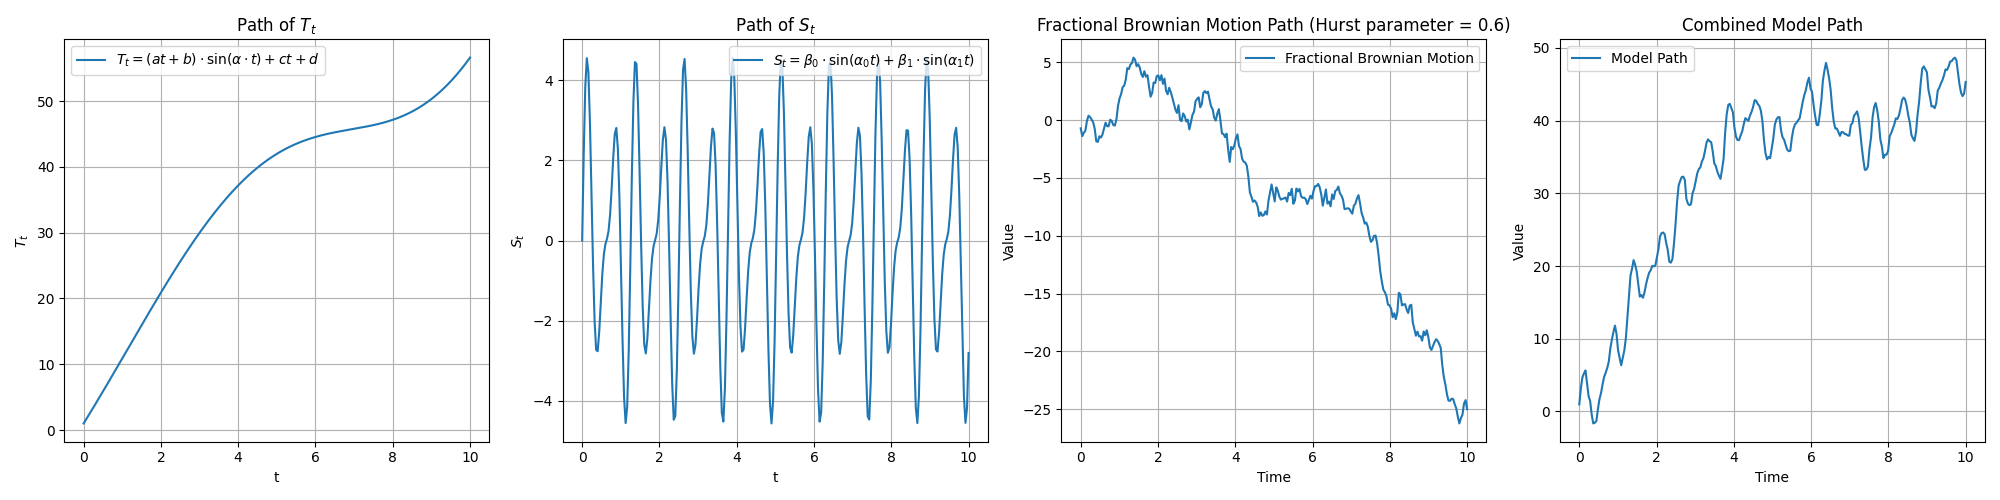
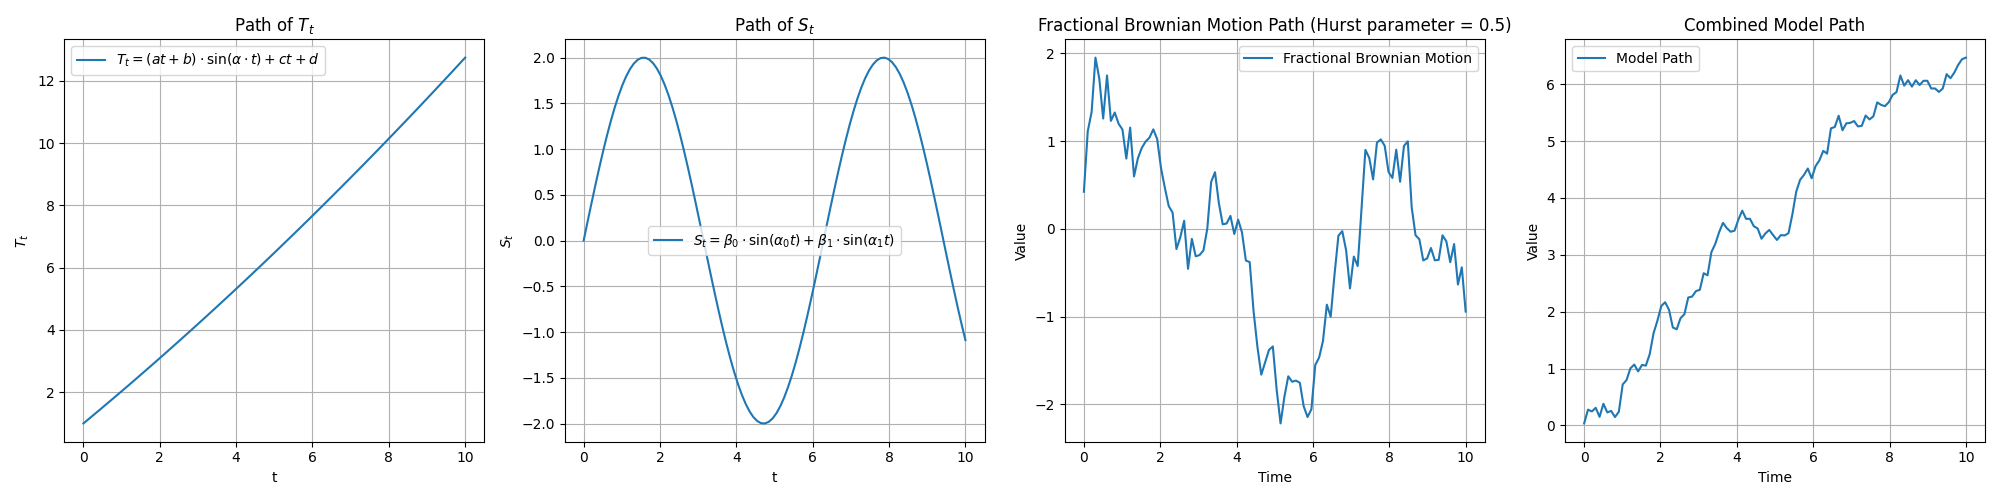
more restructering done

diff --git a/TimeSeries.py b/TimeSeries.py
@@ -1,22 +1,50 @@
 import numpy as np
 import matplotlib.pyplot as plt
+from season import Season_paper
+from trend import Trend_paper
+from cholesky_fBM import cholesky_fBm_mult
+
+def time_series_paper(Hurst, m, b, c1, c2, alpha,
+                      alpha1, alpha2, beta1, beta2,
+                      N_steps, T_max, n_paths, w_random, w_trend, w_season, typ):
+    
+    t_values, T_t = Trend_paper(m, b, c1, c2, alpha, N_steps, T_max, n_paths)
+    t_values, S_t = Season_paper(alpha1, alpha2, beta1, beta2, N_steps, T_max, n_paths)
+    t_values, paths = cholesky_fBm_mult(N_steps, T_max, Hurst, n_paths)
+    paths = np.array(paths)
+    T_t = np.array(T_t)
+    S_t = np.array(S_t)
+    
+    if typ == 1:
+        Yts = w_trend * T_t + w_season* S_t + w_random * paths   
+    elif typ == 8:
+        Yts = w_trend * T_t * w_season* S_t * w_random * paths     
+    else:
+        raise ValueError("Unsupported 'typ' value. Use 1 or 8.")
+        
+    return t_values, Yts
+        
 
 # Plotting all four plots next to each other
-def plot_subplots(a, b, c, d, alpha, alpha_0, alpha_1, beta_0, beta_1, N, T, H, x, y, z):
+def plot_subplots(Hurst, m, b, c1, c2, alpha,
+                      alpha1, alpha2, beta1, beta2,
+                      N_steps, T_max, n_paths, w_random, w_trend, w_season, typ=1, i=0):
     fig, axs = plt.subplots(1, 4, figsize=(20, 5))
 
     # Plot T_t
-    plot_T_t(axs[0], a, b, c, d, alpha, N, T, x)
+    plot_T_t(axs[0],m, b, c1, c2, alpha, N_steps, T_max, n_paths)
 
     # Plot S_t
-    plot_S_t(axs[1], alpha_0, alpha_1, beta_0, beta_1, N, T, y)
+    plot_S_t(axs[1],alpha1, alpha2, beta1, beta2, N_steps, T_max, n_paths)
 
     # Plot fBm_path
-    plot_fBm_path(axs[2], N, T, H, z)
+    plot_fBm_path(axs[2], N_steps, T_max, Hurst, n_paths)
 
     # Plot model_path
-    t_values, model_path_values = model_path(a, b, c, d, alpha, alpha_0, alpha_1, beta_0, beta_1, N, T, H, x, y, z)
-    axs[3].plot(t_values, model_path_values, label='Model Path')
+    t_values, model_path_values = time_series_paper(Hurst, m, b, c1, c2, alpha,
+                      alpha1, alpha2, beta1, beta2,
+                      N_steps, T_max, n_paths, w_random, w_trend, w_season, typ=1)
+    axs[3].plot(t_values, model_path_values[i], label='Model Path')
     axs[3].set_title('Combined Model Path')
     axs[3].set_xlabel('Time')
     axs[3].set_ylabel('Value')
@@ -27,27 +55,27 @@ def plot_subplots(a, b, c, d, alpha, alpha_0, alpha_1, beta_0, beta_1, N, T, H, 
     plt.savefig("testpic")
     #plt.show()
 
-def plot_fBm_path(ax, N, T, H, z):
-    t_values, fBm_path = cholesky_fBm(N, T, H, z)
-    ax.plot(t_values, fBm_path, label='Fractional Brownian Motion')
-    ax.set_title('Fractional Brownian Motion Path (Hurst parameter = {})'.format(H))
+def plot_fBm_path(ax, N_steps, T_max, Hurst, n_paths, i=0):
+    t_values, fBm_path = cholesky_fBm_mult(N_steps, T_max, Hurst, n_paths)
+    ax.plot(t_values, fBm_path[i], label='Fractional Brownian Motion')
+    ax.set_title('Fractional Brownian Motion Path (Hurst parameter = {})'.format(Hurst))
     ax.set_xlabel('Time')
     ax.set_ylabel('Value')
     ax.legend()
     ax.grid(True)
 
-def plot_S_t(ax, alpha_0, alpha_1, beta_0, beta_1, N, T, y):
-    t_values, S_t_values = S_t(alpha_0, alpha_1, beta_0, beta_1, N, T, y)
-    ax.plot(t_values, S_t_values, label=r'$S_{t} = \beta_0 \cdot \sin(\alpha_0 t) + \beta_1 \cdot \sin(\alpha_1 t)$')
+def plot_S_t(ax, alpha1, alpha2, beta1, beta2, N_steps, T_max, n_paths, i=0):
+    t_values, S_t_values = Season_paper(alpha1, alpha2, beta1, beta2, N_steps, T_max, n_paths)
+    ax.plot(t_values, S_t_values[i], label=r'$S_{t} = \beta_0 \cdot \sin(\alpha_0 t) + \beta_1 \cdot \sin(\alpha_1 t)$')
     ax.set_title('Path of $S_{t}$')
     ax.set_xlabel('t')
     ax.set_ylabel('$S_{t}$')
     ax.legend()
     ax.grid(True)
 
-def plot_T_t(ax, a, b, c, d, alpha, N, T, x):
-    t_values, T_t_values = T_t(a, b, c, d, N, T, alpha, x)
-    ax.plot(t_values, T_t_values, label=r'$T_{t} = (at + b) \cdot \sin(\alpha \cdot t) + ct + d$')
+def plot_T_t(ax, m, b, c1, c2, alpha, N_steps, T_max, n_paths, i=0):
+    t_values, T_t_values = Trend_paper(m, b, c1, c2, alpha, N_steps, T_max, n_paths)
+    ax.plot(t_values, T_t_values[i], label=r'$T_{t} = (at + b) \cdot \sin(\alpha \cdot t) + ct + d$')
     ax.set_title('Path of $T_{t}$')
     ax.set_xlabel('t')
     ax.set_ylabel('$T_{t}$')
@@ -55,65 +83,39 @@ def plot_T_t(ax, a, b, c, d, alpha, N, T, x):
     ax.grid(True)
 
 
-def model_path(a, b, c, d, alpha, alpha_0, alpha_1, beta_0, beta_1, N, T, H, x, y, z, case=1):
-    if case==1:
-        t_values, T_t_values = T_t(a, b, c, d, N, T, alpha, x)
-        t_values, S_t_values = S_t(alpha_0, alpha_1, beta_0, beta_1, N, T, y)
-        t_values, path = cholesky_fBm(N, T, H, z)
-        #print(T_t_values + S_t_values + path)
-    return t_values, T_t_values + S_t_values + path
-
-def T_t(a, b, c, d, N, T, alpha, x):
-    t_values = np.linspace(0, T, N)
-    T_t_values = (a * t_values + b) * np.sin(alpha *t_values) + c * t_values + d
-    return t_values, x * T_t_values
-
-def S_t(alpha_0, alpha_1, beta_0, beta_1, N, T, y):
-    t_values = np.linspace(0, T, N)
-    S_t_values = (beta_0 * np.sin(alpha_0 *t_values)) + (beta_1 * np.sin(alpha_1 *t_values))
-    return t_values, y * S_t_values
-
-def cholesky_fBm(N, T, H, z):
-    '''
-    args:
-        T:      length of time (in years)
-        N:      number of time steps within timeframe
-        H:      Hurst parameter
-    '''
-    gamma = lambda k,H: 0.5*(np.abs(k-1)**(2*H) - 2*np.abs(k)**(2*H) + np.abs(k+1)**(2*H))  
+if __name__ == "__main__":
+    # Define parameters
+    Hurst = 0.5
+    m = 1
+    b = 1
+    c1 = 1
+    c2 = 1
+    alpha = 1
+    alpha1 = 1
+    alpha2 = 1
+    beta1 = 1
+    beta2 = 1
+    N_steps = 100
+    T_max = 10
+    n_paths = 2
+    w_random = 0.5
+    w_trend = 0.3
+    w_season = 0.2
+    typ = 1
     
-    L = np.zeros((N,N))
-    X = np.zeros(N)
-    V = np.random.standard_normal(size=N)
 
-    L[0,0] = 1.0
-    X[0] = V[0]
+    # Generate time series
+    t_values, Yts = time_series_paper(Hurst, m, b, c1, c2, alpha, alpha1, alpha2, beta1, beta2,
+                                      N_steps, T_max, n_paths, w_random, w_trend, w_season, typ)
     
-    L[1,0] = gamma(1,H)
-    L[1,1] = np.sqrt(1 - (L[1,0]**2))
-    X[1] = np.sum(L[1,0:2] @ V[0:2])
+    # plot
+    plot_subplots(Hurst, m, b, c1, c2, alpha,
+                      alpha1, alpha2, beta1, beta2,
+                      N_steps, T_max, n_paths, w_random, w_trend, w_season, typ)
     
-    for i in range(2,N):
-        L[i,0] = gamma(i,H)
-        
-        for j in range(1, i):         
-            L[i,j] = (1/L[j,j])*(gamma(i-j,H) - (L[i,0:j] @ L[j,0:j]))
-
-        L[i,i] = np.sqrt(1 - np.sum((L[i,0:i]**2))) 
-        X[i] = L[i,0:i+1] @ V[0:i+1]
-
-    fBm = np.cumsum(X)*(N**(-H))
-    path = (T**H)*(fBm)
-    t_values = np.linspace(0, T, N)
-    return t_values, z * path
-
-if __name__=="__main__":
-    #plot_fBm_path(250, 10, 0.6, 1)
-    #plot_T_t(1, 5, 7, 1, 0.5, 250, 10, 1)
-    #plot_S_t(10, 15, 2, 1.2, 250, 10, 1)
-    #plot_model_path(1, 5, 7, 1, 0.5, 10, 15, 2, 1.2, 250, 10, 0.6, 1, 1.5, 4)
-    plot_subplots(1, 5, 7, 1, 0.5, 10, 15, 2, 1.2, 250, 10, 0.6, 1, 1.5, 4)
-
+    # Print results
+    print("Time Values:", t_values)
+    print("Time Series:", Yts)
 
 
 

diff --git a/season.py b/season.py
@@ -1,0 +1,14 @@
+import numpy as np
+
+def Season_paper(alpha1, alpha2, beta1, beta2, N_steps, T_max, n_paths):
+    """A Methodology for Validating Diversity in Synthetic Time Series Generation
+    f(t) = mt + b + (c1*t+c2)*sin((alpha/2*pi*T_max)*t)
+    """
+    t_values = np.linspace(0, T_max, N_steps)
+    S_t_values = (beta1 * np.sin(alpha1 *t_values)) + (beta2 * np.sin(alpha2 *t_values))
+    paths = [S_t_values for _ in range(n_paths)]
+    return t_values, paths
+
+if __name__=="__main__":
+    print(Season_paper(1, 2, 3, 4, 10, 2, 2)[0]) # t
+    print(Season_paper(1, 2, 3, 4, 10, 2, 2)[1]) # f(t)'s
